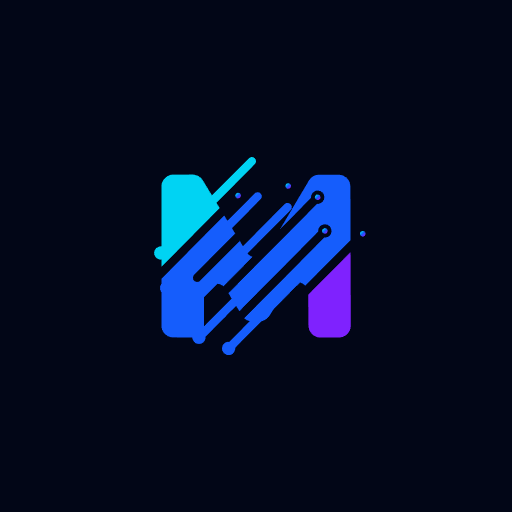
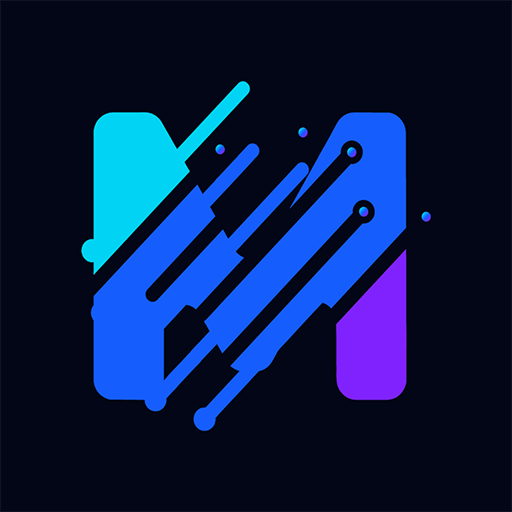
feat: complete PWA branding overhaul and service worker optimization

Changed region(s): [[0.1562, 0.1562, 0.8438, 0.8438]]

diff --git a/public/sw.js b/public/sw.js
@@ -1,11 +1,20 @@
-const CACHE_NAME = "muhammad-portfolio-v1";
+const CACHE_NAME = "muhammad-portfolio-v2";
 const OFFLINE_URL = "/offline";
 
-const PRECACHE_ASSETS = [OFFLINE_URL, "/favicon-32x32.png", "/manifest.json"];
+const PRECACHE_ASSETS = [
+	OFFLINE_URL,
+	"/favicon.ico",
+	"/icon.svg",
+	"/favicon-96x96.png",
+	"/apple-touch-icon.png",
+	"/web-app-manifest-192x192.png",
+	"/web-app-manifest-512x512.png",
+	"/manifest.json",
+];
 
 self.addEventListener("install", (event) => {
 	event.waitUntil(
-		caches.open(CACHE_NAME).then((cache) => cache.addAll(PRECACHE_ASSETS))
+		caches.open(CACHE_NAME).then((cache) => cache.addAll(PRECACHE_ASSETS)),
 	);
 	self.skipWaiting();
 });
@@ -16,9 +25,9 @@ self.addEventListener("activate", (event) => {
 			return Promise.all(
 				cacheNames
 					.filter((name) => name !== CACHE_NAME)
-					.map((name) => caches.delete(name))
+					.map((name) => caches.delete(name)),
 			);
-		})
+		}),
 	);
 });
 
@@ -41,7 +50,7 @@ self.addEventListener("fetch", (event) => {
 				const cache = await caches.open(CACHE_NAME);
 				const offlineResponse = await cache.match(OFFLINE_URL);
 				return offlineResponse;
-			})
+			}),
 		);
 	} else {
 		event.respondWith(
@@ -60,19 +69,22 @@ self.addEventListener("fetch", (event) => {
 						if (
 							networkResponse.status === 200 &&
 							(url.includes("_next/static") ||
-								url.includes("/fonts"))
+								url.includes("/fonts") ||
+								url.pathname.match(
+									/\.(webp|png|jpg|jpeg|svg)$/,
+								))
 						) {
 							const responseToCache = networkResponse.clone();
 							caches
 								.open(CACHE_NAME)
 								.then((cache) =>
-									cache.put(event.request, responseToCache)
+									cache.put(event.request, responseToCache),
 								);
 						}
 						return networkResponse;
 					})
 					.catch(() => new Response(null, { status: 404 }));
-			})
+			}),
 		);
 	}
 });

diff --git a/src/app/layout.tsx b/src/app/layout.tsx
@@ -60,9 +60,9 @@ export const metadata: Metadata = {
 	},
 	icons: {
 		icon: [
-			{ url: "/favicon.ico", sizes: "any" },
+			{ url: "/icon.svg", type: "image/svg+xml" },
 			{ url: "/favicon-96x96.png", sizes: "96x96", type: "image/png" },
-			{ url: "/favicon.svg", type: "image/svg+xml" },
+			{ url: "/favicon.ico", sizes: "48x48" },
 		],
 		apple: [
 			{
@@ -161,7 +161,7 @@ export default async function RootLayout({
 					href="/favicon-96x96.png"
 					sizes="96x96"
 				/>
-				<link rel="icon" type="image/svg+xml" href="/favicon.svg" />
+				<link rel="icon" type="image/svg+xml" href="/icon.svg" />
 				<link rel="shortcut icon" href="/favicon.ico" />
 				<link
 					rel="apple-touch-icon"

diff --git a/src/app/globals.css b/src/app/globals.css
@@ -55,7 +55,9 @@ body {
 ::selection {
 	background-color: rgba(34, 211, 238, 0.1);
 	color: #ffffff;
-	text-shadow: 0 0 2px rgba(34, 211, 238, 1), 0 0 10px rgba(34, 211, 238, 0.8),
+	text-shadow:
+		0 0 2px rgba(34, 211, 238, 1),
+		0 0 10px rgba(34, 211, 238, 0.8),
 		0 0 30px rgba(34, 211, 238, 0.4);
 }
 
@@ -130,7 +132,8 @@ body {
 /* --- Grid & Noise Patterns --- */
 .bg-grid-pattern {
 	background-size: 50px 50px;
-	background-image: linear-gradient(
+	background-image:
+		linear-gradient(
 			to right,
 			rgba(255, 255, 255, 0.03) 1px,
 			transparent 1px
